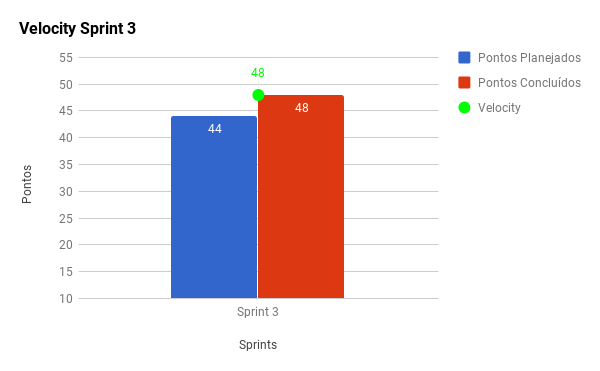
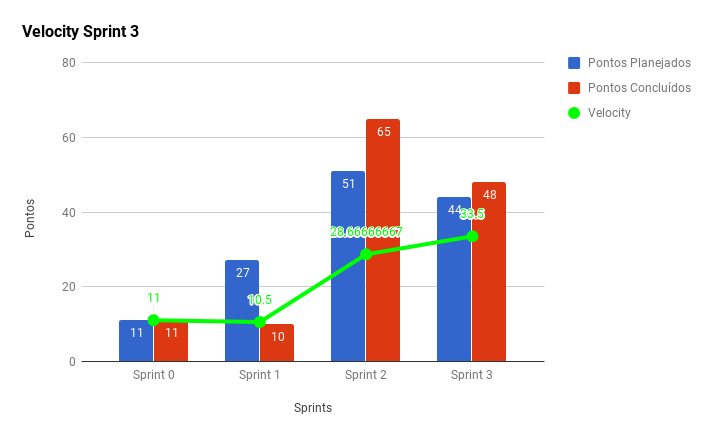
Update velocity images

diff --git a/docs/Sprint-2-Resultados.md b/docs/Sprint-2-Resultados.md
@@ -22,26 +22,40 @@ title: Resultados Sprint 2
 |[Iniciar _Roadmap_ do _DevOps_](https://github.com/fga-eps-mds/PDF2Knowledge/issues/35)| Concluída | 0 |
 |[Refinar o Documento de Visão](https://github.com/fga-eps-mds/PDF2Knowledge/issues/31)| Concluída | 1 |
 |[Estudar Sobre Notas Fiscais](https://github.com/fga-eps-mds/PDF2Knowledge/issues/32)| Concluída | 2 |
+|[Definir Política de _Branches_ e _Commits_](https://github.com/fga-eps-mds/PDF2Knowledge/issues/10)| Concluída | 2 |
 |[Pesquisa de Possível Público Alvo](https://github.com/fga-eps-mds/PDF2Knowledge/issues/37) | Concluída | 3 |
 |[Iniciar o Documento de Arquitetura](https://github.com/fga-eps-mds/PDF2Knowledge/issues/27) | Concluída | 5 | 
 |[Protótipos de Alta Fidelidade](https://github.com/fga-eps-mds/PDF2Knowledge/issues/23) | Concluída | 8 | 
 |[Definir Identidade Visual](https://github.com/fga-eps-mds/PDF2Knowledge/issues/22) | Concluída | 8 | 
 |[Fazer _Canvas_](https://github.com/fga-eps-mds/PDF2Knowledge/issues/38)| Concluída | 8 |
-|[Definir Backlog do Produto](https://github.com/fga-eps-mds/PDF2Knowledge/issues/36) | Concluída | 13 |
-
-|[Definir Política de _Branches_ e _Commits_](https://github.com/fga-eps-mds/PDF2Knowledge/issues/10)| Concluída | 2 |
 |[Elaborar EAP](https://github.com/fga-eps-mds/PDF2Knowledge/issues/11)| Concluída | 5|
 |[_Burndown_ de Riscos](https://github.com/fga-eps-mds/PDF2Knowledge/issues/9)| Concluída | 5 |
 |[Elaborar TAP](https://github.com/fga-eps-mds/PDF2Knowledge/issues/12)| Concluída |5 |
-
+|[Definir Backlog do Produto](https://github.com/fga-eps-mds/PDF2Knowledge/issues/36) | Concluída | 13 |
 |[Iniciar _Roadmap_ do Produto](https://github.com/fga-eps-mds/PDF2Knowledge/issues/8)| Não Concluída | 3 |  
 
-68 total sprint
 
----    
+Pontos Planejados Concluídos: 48     
+Pontos de Dívida Concluídos:  17    
+Pontos Não Agregados: 3  
 
-> [_Milestone Sprint_ 2](https://github.com/fga-eps-mds/PDF2Knowledge/milestone/3?closed=1)
+> [_Milestone Sprint_ 2](https://github.com/fga-eps-mds/2018.2-Kalkuli/milestone/3?closed=1)
 
+
+## _Burndown_    
+
+<p align="justify">
+A equipe novamente entrega as <i>issues</i> no final da <i>sprint</i>. Com a ocorrência do feriado, a maioria delas foi entregue na sexta-feira.
+</p> 
+
+![S2](assets/burndown-S2.png "Burndown Sprint 2")
+
+## _Velocity_     
+<p align="justify">
+O <i>velocity</i> da equipe aumentou consideravelmente graças ao fechamento de escopo. Foi possível liquidar as dívidas vindas da <i>sprint</i> anterior, e também finalizar o planejado, finalmente elicitando requisitos e moldando o produto.
+</p>   
+
+![S2](assets/velocity-S2.png "Burndown Sprint 2")
 
 ## Riscos
 

diff --git a/docs/Sprint-3-Resultados.md b/docs/Sprint-3-Resultados.md
@@ -49,7 +49,9 @@ O <i>burndown</i> indica que as <i>issues</i> foram entregues tardiamente. Quase
 
 ## _Velocity_     
 <p align="justify">
-Nas <i>sprints</i>  anteriores a equipe não pontuava as <i>issues</i>, por acreditar que os pontos se aplicavam apenas às histórias de usuário e técnicas, portanto o <i>velocity</i> da equipe, na <i>sprint</i> 3, ainda não reflete a produtividade, dado que as <i>sprints</i> anteriores não possuíam pontuações definidas.</p>   
+Após o fechamento do escopo na <i>sprint</i> anterior, foi possível alocar mais histórias, e concluir a dívida relacionada ao escopo.</p>   
+<p align="justify">
+O <i>velocity</i> aumenta à medida que a equipe ganha maturidade, permitindo o aumento gradual da pontuação total das próximas <i>sprints</i>.</p>   
 
 ![S3](assets/velocity-S3.png "Burndown Sprint 3")
 

diff --git a/docs/Sprint-4-Resultados.md b/docs/Sprint-4-Resultados.md
@@ -19,6 +19,7 @@ title: Resultados Sprint 4
 |[Configurar o _Code Climate_ ](https://github.com/fga-eps-mds/2018.2-Kalkuli/issues/75) |Concluída | 3 |
 |[Configurar as Integrações Contínuas ](https://github.com/fga-eps-mds/2018.2-Kalkuli/issues/76) |Concluída | 5 |
 |[Refatorar EAP ](https://github.com/fga-eps-mds/2018.2-Kalkuli/issues/77) |Concluída | 3 |
+|[Refatorar Canvas](https://github.com/fga-eps-mds/2018.2-Kalkuli/issues/60) |Concluída | 1 |
 |[Elaborar a Matriz de Avaliação de Valor ](https://github.com/fga-eps-mds/2018.2-Kalkuli/issues/78) |Não Concluída | 3 |
 
 
